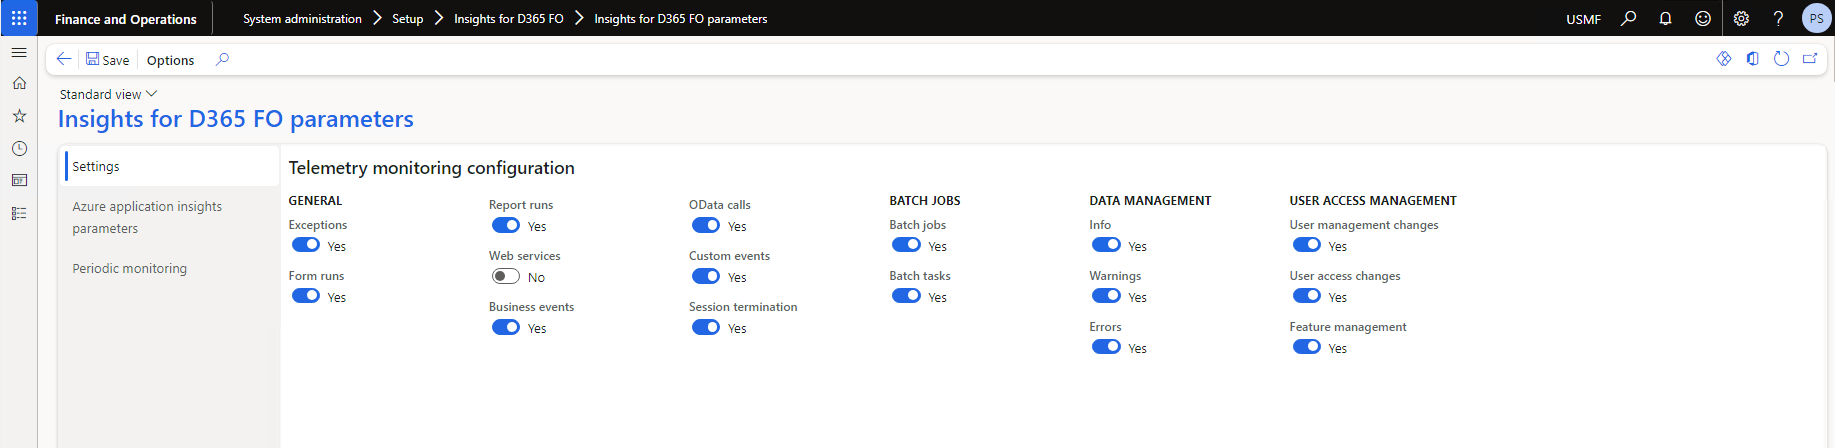
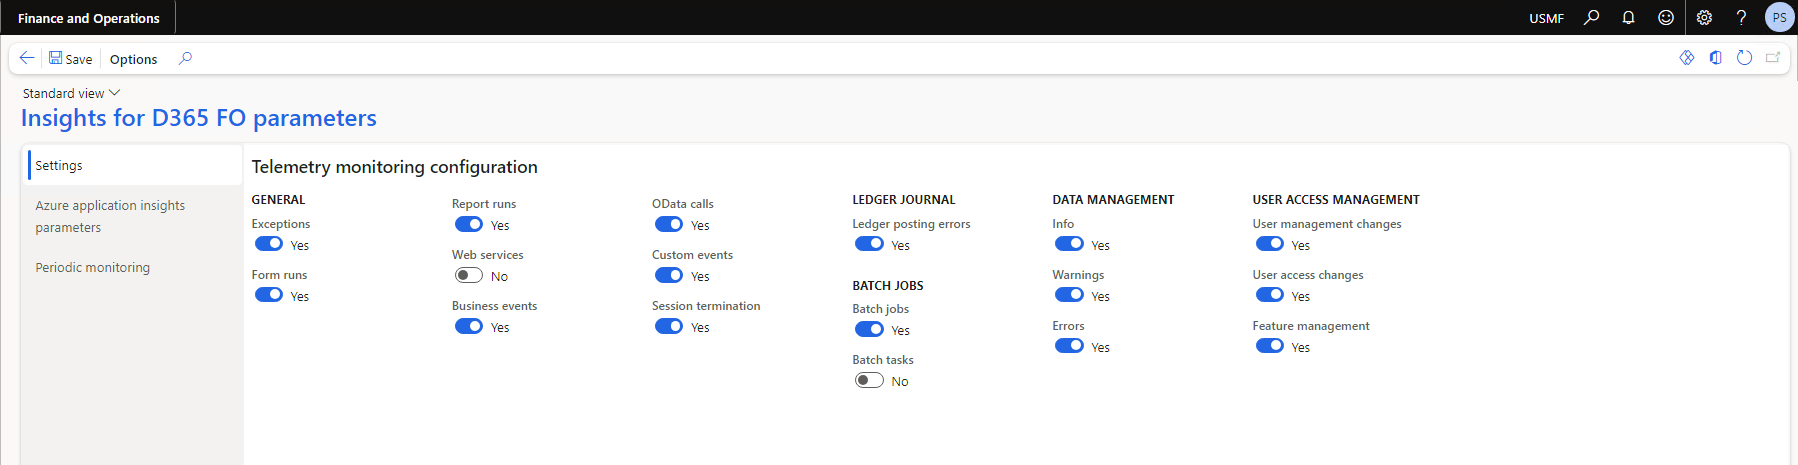
Update DXC Insights guide for new Release

diff --git a/_layouts/default.html b/_layouts/default.html
@@ -624,7 +624,9 @@ px;height:72px; margin-top: 3px;"></a>
         </ul>
       </li> 
       <li><a href="https://dxcanzproduct.github.io/DXC-Products-for-Microsoft-Business-Applications/DXC-INSIGHTS/Limitations.html">Limitations</a></li>  
+      <li><a href="https://dxcanzproduct.github.io/DXC-Products-for-Microsoft-Business-Applications/DXC-INSIGHTS/Security-configuration.html">Security configuration</a></li> 
       <li><a href="https://dxcanzproduct.github.io/DXC-Products-for-Microsoft-Business-Applications/DXC-INSIGHTS/FAQ.html">FAQ</a></li> 
+      <li><a href="https://dxcanzproduct.github.io/DXC-Products-for-Microsoft-Business-Applications/DXC-INSIGHTS/Acronyms.html">Definitions and Acronyms</a></li> 
     </ul>
  </li>          
       <li><span id="DXC-ITEM-CREATION-WIZARD" class="caret">Item creation wizard</span>

diff --git a/DXC-INSIGHTS/setup.md b/DXC-INSIGHTS/setup.md
@@ -60,7 +60,8 @@ On the ‘Settings’ tab, update and save the types of telemetry that Insights 
 **OData calls**  | When enabled in parameters, logs all ODATA calls (Create, read, Update, delete) to the custom events table on Azure AppInsights. Refer to [OData monitoring limitations](./Limitations.md#2-odata-monitoring) to understand current limitations on Odata monitoring
 **Custom events** | This parameter is used to control the logging of periodic monitoring telemetry, along with any other custom telemetry logging extensions that you have made to your application with Insights for D365 FO.  
 **Dual-write** | When enabled in parameters, logs all exceptions that arise during a dual-write sync to a dedicated exceptions table within Azure AppInsights and tags the exception type as "Dual-write". This is an additional feature controlled by its own feature key **Insights for D365 FO Dual Write**. Refer to [Feature management](./Release-notes.md#feature-management)
-**Session termination**  | When enabled in parameters, logs telemetry on all unexpected session shutdown / termibnation causing an interrupt in the system to the custom events table on Azure AppInsights.
+**Session termination**  | When enabled in parameters, logs telemetry on all unexpected session shutdown / termination causing an interrupt in the system to the custom events table on Azure AppInsights.
+**Ledger posting errors**  | When enabled in parameters, logs telemetry on all errors encountered throughout the ledger journal posting process.
 **Batch jobs** | When enabled in parameters, logs telemetry on all batch jobs as it finishes execution (including key details like batch job id, duration etc) to the custom events table on Azure AppInsights. Batch jobs that fail during execution will also be logged, and a corresponding record will be created to the exceptions table on Azure AppInsights with details on the error that ocurred. Refer to [Batch monitoring setup](./Batch_job_monitoring.md#batch-job-monitoring-setup)
 **Batch tasks** | When enabled in parameters, logs telemetry on all batch tasks as it finishes execution to the custom events table on Azure AppInsights.
 **Data management - Info** | When enabled in parameters, logs telemetry on general events ocurring within the Data management framework import/export process to the custom events table on Azure AppInsights. Refer to [Data management framework limitations](./Limitations.md#3-data-management-framework-importexport-info-and-warning-events) to understand current limitations on Data management - Info monitoring

diff --git a/DXC-INSIGHTS/Release-notes.md b/DXC-INSIGHTS/Release-notes.md
@@ -32,7 +32,7 @@ This document describes the features that are either new or changed in the relea
 
 # Current version
 
-### Release 10.0.37.20240429
+### Release 10.0.37.20240627 
 
 Insights for D365 FO 10.0.37 runs on the following Microsoft releases
 
@@ -42,6 +42,27 @@ Microsoft Dynamics 365 application	| 10.0.37	  | [What’s new or changed in Dyn
 Microsoft Dynamics 365 application	| 10.0.38	  | [What’s new or changed in Dynamics 365 application version 10.0.38](https://docs.microsoft.com/en-us/dynamics365/finance/get-started/whats-new-changed-10-0-38)
 Microsoft Dynamics 365 application	| 10.0.39	  | [What’s new or changed in Dynamics 365 application version 10.0.39](https://docs.microsoft.com/en-us/dynamics365/finance/get-started/whats-new-changed-10-0-39)
 Microsoft Dynamics 365 application	| 10.0.40	  | [What’s new or changed in Dynamics 365 application version 10.0.40](https://docs.microsoft.com/en-us/dynamics365/finance/get-started/whats-new-changed-10-0-40)
+
+#### Build 10.0.37.202406271
+Release date: 27 June 2024
+
+<ins>New features</ins>
+
+Number	| Name		 | Description
+:--	|:--		  	|:--	
+17295	| Ledger Journal Posting	| Add Telemetry logging support to comprehensively record errors encountered throughout the ledger journal posting process.
+18321	| Application Insights Dashboard template | A new version 1.5 of Application Insights Dashboard template has been published
+
+<ins>Bug fix</ins>
+
+Number	| Name		 | Description
+:--	|:--		  	|:--	
+18185	| DMF error events	| Fix an issue related to logging of DMF export/import events where some info messages were getting logged as errors in Azure App Insights
+18319	| Batch error events	| Fix an issue related to logging of batch error events that were getting logged into custom events table as duplicate records.
+
+# Previous Version(s)
+
+### Release 10.0.37.20240429
 
 #### Build 10.0.37.202404293
 Release date: 24 May 2024
@@ -72,7 +93,6 @@ Number	| Name		 | Description
 17464	| Feature state monitoring with Insights for D365 FO	| Add Telemetry logging support for logging feature state changes. Refer to [Insights for D365 FO Parameters](./setup.md#3-insights-for-d365-fo-parameters)
 17025	| Capture feature name within Page views monitoring | Add a custom dimension capturing the feature name within page views monitoring
 
-# Previous Version(s)
 
 ### Release 10.0.36.202403261
 

diff --git a/DXC-INSIGHTS/Acronyms.md b/DXC-INSIGHTS/Acronyms.md
@@ -1,0 +1,39 @@
+---
+# required metadata
+
+title: Insights for D365 FO
+description: Insights for D365 FO - Batch job monitoring
+author: Patrick Sharma
+manager: Kym Parker
+ms.date: 2024-06-28
+ms.topic: article
+ms.prod: 
+ms.service: dynamics-ax-applications
+ms.technology: 
+
+# optional metadata
+
+ms.search.form:  
+audience: Application User/ Azure Administrators
+# ms.devlang: 
+ms.reviewer: Patrick Sharma
+
+# ms.tgt_pltfrm: 
+# ms.custom: ["21901", "intro-internal"]
+ms.search.region: InsightsForD365FO
+# ms.search.industry: [leave blank for most, retail, public sector]
+ms.author: Patrick Sharma
+ms.search.validFrom: 2024-06-28
+ms.dyn365.ops.version: 10.0.37
+---
+
+## Definitions and Acronyms
+
+The following Definitions and Acronyms are used in the Insights for D365 FO module user guides.
+
+Acronym	    | Definition
+:--         |:--
+**D365 FO**	  | Microsoft Dynamics 365 for Finance and Operations Enterprise Edition
+**AOT**	    | Application Object Tree
+**App Insights**    | Azure Application Insights
+**DMF**	    | Data management Framework

diff --git a/DXC-INSIGHTS/Security-configuration.md b/DXC-INSIGHTS/Security-configuration.md
@@ -1,0 +1,37 @@
+---
+# required metadata
+
+title: Insights for D365 FO
+description: Insights for D365 FO - Batch job monitoring
+author: Patrick Sharma
+manager: Kym Parker
+ms.date: 2024-06-28
+ms.topic: article
+ms.prod: 
+ms.service: dynamics-ax-applications
+ms.technology: 
+
+# optional metadata
+
+ms.search.form: SysSecConfiguration 
+audience: Application User/ Azure Administrators
+# ms.devlang: 
+ms.reviewer: Patrick Sharma
+
+# ms.tgt_pltfrm: 
+# ms.custom: ["21901", "intro-internal"]
+ms.search.region: InsightsForD365FO
+# ms.search.industry: [leave blank for most, retail, public sector]
+ms.author: Patrick Sharma
+ms.search.validFrom: 2024-06-28
+ms.dyn365.ops.version: 10.0.37
+---
+
+# Security configuration
+
+## Insights for D365 FO module
+
+Insights for D365 FO has the following roles included:
+
+- **Insights for D365 FO administrator** - Maintains all Insights for D365 FO setup
+
